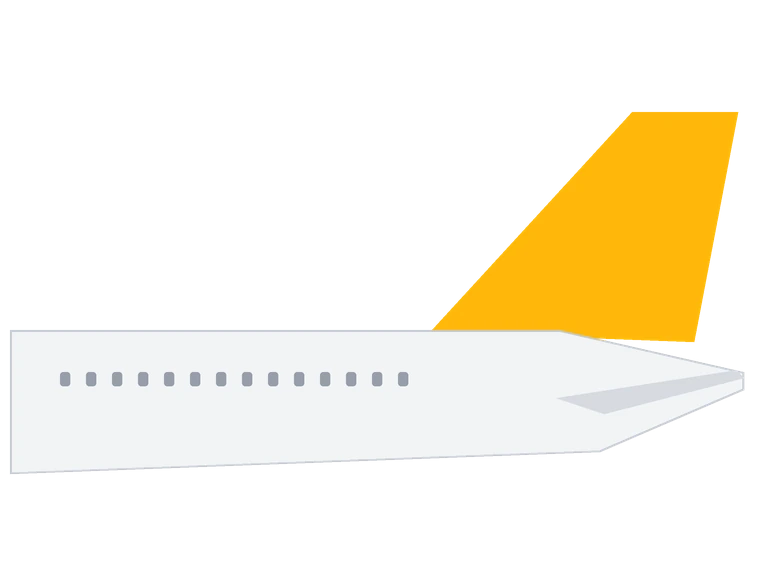
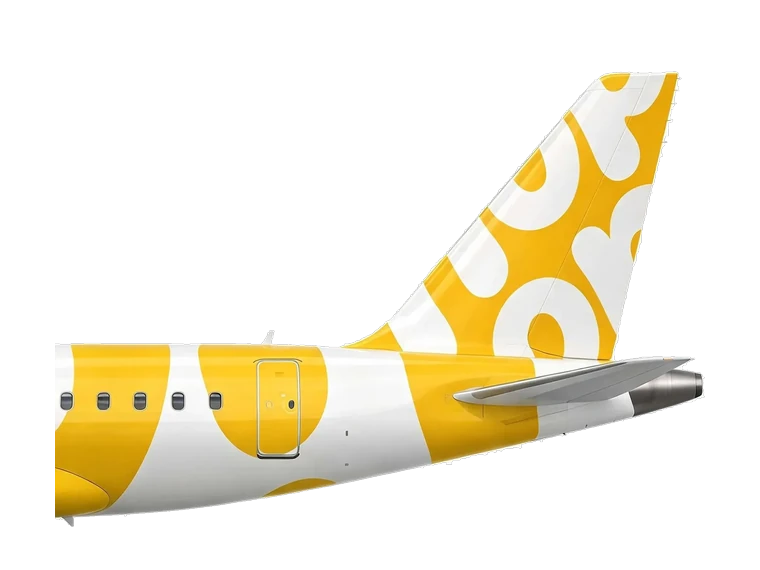
Replace a member's stand-in livery with its own
The Italian low-cost member's livery has arrived and replaces the drawn
stand-in. It is a white aircraft on an off-white backdrop with a soft
ground shadow, so the cutout also clears everything below the first
bright band under the fuselage in each column, which removes the shadow
without touching the belly.

Changed region(s): [[0.0, 0.1193, 0.9987, 0.9246]]

diff --git a/assets/js/data.js b/assets/js/data.js
@@ -567,7 +567,7 @@ const MEMBERS = [
   },
   {
     name:'Hop on Airline', short:'Hop on!', code:'HO', country:'Italy',
-    color:'#FFB80A', tail:'assets/img/members/hop-on.webp',   // stand-in until the livery arrives
+    color:'#FFB80A', tail:'assets/img/members/hop-on.webp',
     hubs:['LIN'], focus:[], joined:2026,
     blurb:'Montigo Air\'s low-cost sister, flying short, simple hops across ' +
           'Italy and nearby Europe from Milan Linate.',

diff --git a/index.html b/index.html
@@ -163,7 +163,7 @@
     </div>
   </div>
 </footer>
-<script src="assets/js/data.js?v=cdbef59c"></script>
+<script src="assets/js/data.js?v=7419c64c"></script>
 <script src="assets/js/site.js?v=756ac757"></script>
 <script>
   renderMembers(document.getElementById('membersHome'));

diff --git a/book.html b/book.html
@@ -220,7 +220,7 @@
     </div>
   </div>
 </footer>
-<script src="assets/js/data.js?v=cdbef59c"></script>
+<script src="assets/js/data.js?v=7419c64c"></script>
 <script src="assets/js/site.js?v=756ac757"></script>
 <script src="assets/js/booking.js?v=3150a536"></script>
 <script>

diff --git a/bookings.html b/bookings.html
@@ -122,7 +122,7 @@
     </div>
   </div>
 </footer>
-<script src="assets/js/data.js?v=cdbef59c"></script>
+<script src="assets/js/data.js?v=7419c64c"></script>
 <script src="assets/js/site.js?v=756ac757"></script>
 <script src="assets/js/booking.js?v=3150a536"></script>
 <script>

diff --git a/members.html b/members.html
@@ -121,7 +121,7 @@
     </div>
   </div>
 </footer>
-<script src="assets/js/data.js?v=cdbef59c"></script>
+<script src="assets/js/data.js?v=7419c64c"></script>
 <script src="assets/js/site.js?v=756ac757"></script>
 <script>
   renderMembers(document.getElementById('membersAll'));

diff --git a/join.html b/join.html
@@ -171,7 +171,7 @@
     </div>
   </div>
 </footer>
-<script src="assets/js/data.js?v=cdbef59c"></script>
+<script src="assets/js/data.js?v=7419c64c"></script>
 <script src="assets/js/site.js?v=756ac757"></script>
 <script>
   renderJoin(document.getElementById('joinGroups'));

diff --git a/news.html b/news.html
@@ -117,7 +117,7 @@
     </div>
   </div>
 </footer>
-<script src="assets/js/data.js?v=cdbef59c"></script>
+<script src="assets/js/data.js?v=7419c64c"></script>
 <script src="assets/js/site.js?v=756ac757"></script>
 <script>
   renderPress(document.getElementById('releases'));

diff --git a/airline-air-siam.html b/airline-air-siam.html
@@ -188,7 +188,7 @@
     </div>
   </div>
 </footer>
-<script src="assets/js/data.js?v=cdbef59c"></script>
+<script src="assets/js/data.js?v=7419c64c"></script>
 <script src="assets/js/site.js?v=756ac757"></script>
 <script>
   document.getElementById('ftMembers').innerHTML =

diff --git a/airline-akerair.html b/airline-akerair.html
@@ -225,7 +225,7 @@
     </div>
   </div>
 </footer>
-<script src="assets/js/data.js?v=cdbef59c"></script>
+<script src="assets/js/data.js?v=7419c64c"></script>
 <script src="assets/js/site.js?v=756ac757"></script>
 <script>
   document.getElementById('ftMembers').innerHTML =

diff --git a/airline-altasib.html b/airline-altasib.html
@@ -204,7 +204,7 @@
     </div>
   </div>
 </footer>
-<script src="assets/js/data.js?v=cdbef59c"></script>
+<script src="assets/js/data.js?v=7419c64c"></script>
 <script src="assets/js/site.js?v=756ac757"></script>
 <script>
   document.getElementById('ftMembers').innerHTML =

diff --git a/airline-caucausair.html b/airline-caucausair.html
@@ -234,7 +234,7 @@
     </div>
   </div>
 </footer>
-<script src="assets/js/data.js?v=cdbef59c"></script>
+<script src="assets/js/data.js?v=7419c64c"></script>
 <script src="assets/js/site.js?v=756ac757"></script>
 <script>
   document.getElementById('ftMembers').innerHTML =

diff --git a/airline-cias.html b/airline-cias.html
@@ -235,7 +235,7 @@
     </div>
   </div>
 </footer>
-<script src="assets/js/data.js?v=cdbef59c"></script>
+<script src="assets/js/data.js?v=7419c64c"></script>
 <script src="assets/js/site.js?v=756ac757"></script>
 <script>
   document.getElementById('ftMembers').innerHTML =
